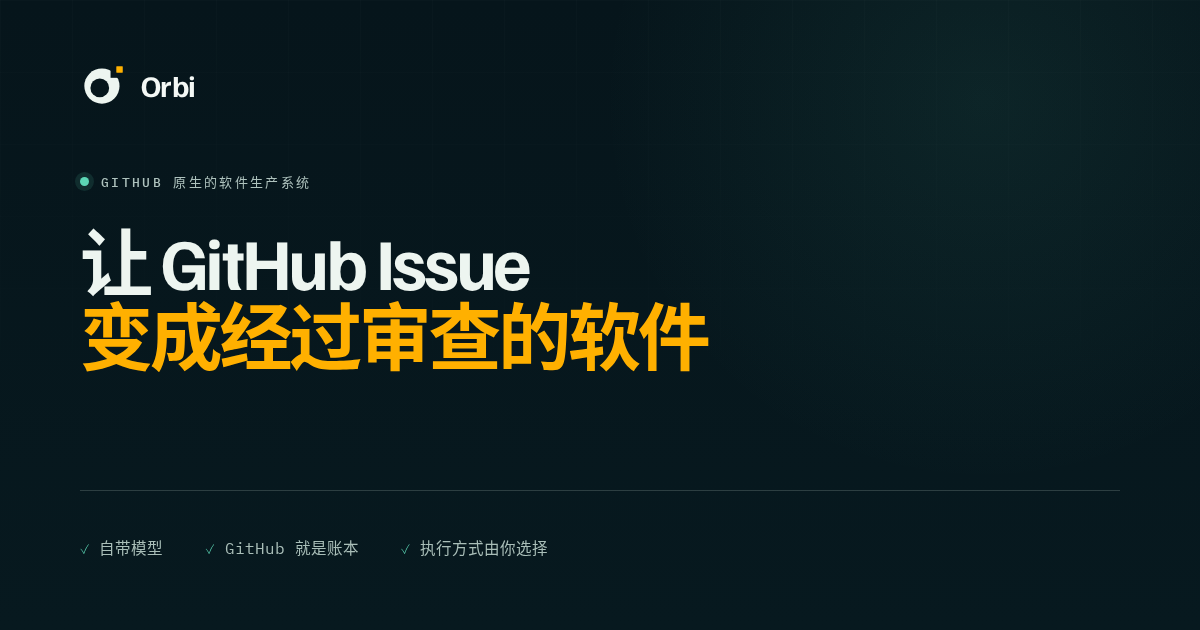
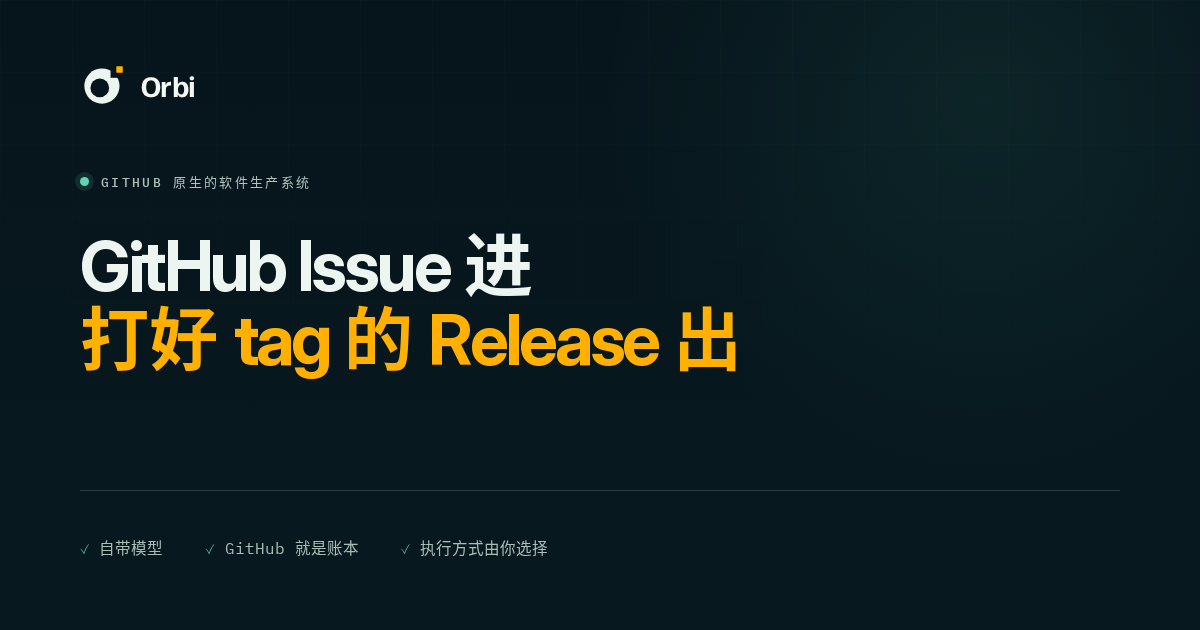
fix(og): 默认分享图标题写到发版，/cloud/ 换各自的分享卡片 (Fixes #550)
- og.png 第二行「into reviewed software」→「into tagged releases」，og-zh.png
  主标题改「GitHub Issue 进 / 打好 tag 的 Release 出」；版式、配色、1200×630、
  logo、眉题与小字全部沿用原图。
- 新增 og-cloud.png / og-cloud-zh.png（博文卡片风格）：主标题「File an Issue,
  get a release」/「提个 Issue，收个版本」，副标题「First 3 merged deliveries
  free · no card」/「前 3 次合并交付免费 · 无需绑卡」，每页一张不共用。
- /cloud/ 与 /zh/cloud/ 的 og:image、twitter:image、og:image:alt 指向各自新图，
  npm run build 重新生成 public/。

Changed region(s): [[0.0617, 0.3619, 0.6167, 0.6032]]

diff --git a/public/zh/cloud/index.html b/public/zh/cloud/index.html
@@ -19,16 +19,16 @@
   <meta property="og:url" content="https://orbi.build/zh/cloud/">
   <meta property="og:title" content="Orbi Cloud — 提个 Issue，收个版本">
   <meta property="og:description" content="托管 Runner：提个 Issue，收个版本——独立审查、exact-head merge、关闭 milestone。Solo 每月含 __SOLO_INCLUDED_TOKENS__ token 模型用量，Pro 每月含 __INCLUDED_TOKENS__。Cloud 提供免费、Solo 每月 US$__SOLO_MONTHLY_USD__、Pro 每月 US$__CLOUD_MONTHLY_USD__ 三档；创始会员永久 5 折，限 __FOUNDING_PARTNER_LIMIT__ 位。">
-  <meta property="og:image" content="https://orbi.build/img/og-zh.png">
+  <meta property="og:image" content="https://orbi.build/img/og-cloud-zh.png">
   <meta property="og:image:width" content="1200">
   <meta property="og:image:height" content="630">
-  <meta property="og:image:alt" content="Orbi Cloud — 运行 GitHub Issue 的托管 Runner。">
+  <meta property="og:image:alt" content="Orbi Cloud — 提个 Issue，收个版本。">
   <meta name="twitter:card" content="summary_large_image">
   <meta name="twitter:site" content="@xqliu">
   <meta name="twitter:creator" content="@xqliu">
   <meta name="twitter:title" content="Orbi Cloud — 提个 Issue，收个版本">
   <meta name="twitter:description" content="托管 Runner：提个 Issue，收个版本。Cloud 提供免费、Solo 每月 US$__SOLO_MONTHLY_USD__、Pro 每月 US$__CLOUD_MONTHLY_USD__ 三档；创始会员永久 5 折，限 __FOUNDING_PARTNER_LIMIT__ 位。">
-  <meta name="twitter:image" content="https://orbi.build/img/og-zh.png">
+  <meta name="twitter:image" content="https://orbi.build/img/og-cloud-zh.png">
   <link rel="preconnect" href="https://fonts.googleapis.com">
   <link rel="preconnect" href="https://fonts.gstatic.com" crossorigin>
   <link href="https://fonts.googleapis.com/css2?family=Familjen+Grotesk:wght@500;600;700&family=IBM+Plex+Mono:wght@400;500&family=Instrument+Sans:wght@400;500;600&family=Noto+Sans+SC:wght@400;500;600;700&display=swap" rel="stylesheet">

diff --git a/site/pages/zh/cloud/index.html b/site/pages/zh/cloud/index.html
@@ -41,16 +41,16 @@
   <meta property="og:url" content="https://orbi.build/zh/cloud/">
   <meta property="og:title" content="Orbi Cloud — 提个 Issue，收个版本">
   <meta property="og:description" content="托管 Runner：提个 Issue，收个版本——独立审查、exact-head merge、关闭 milestone。Solo 每月含 __SOLO_INCLUDED_TOKENS__ token 模型用量，Pro 每月含 __INCLUDED_TOKENS__。Cloud 提供免费、Solo 每月 US$__SOLO_MONTHLY_USD__、Pro 每月 US$__CLOUD_MONTHLY_USD__ 三档；创始会员永久 5 折，限 __FOUNDING_PARTNER_LIMIT__ 位。">
-  <meta property="og:image" content="https://orbi.build/img/og-zh.png">
+  <meta property="og:image" content="https://orbi.build/img/og-cloud-zh.png">
   <meta property="og:image:width" content="1200">
   <meta property="og:image:height" content="630">
-  <meta property="og:image:alt" content="Orbi Cloud — 运行 GitHub Issue 的托管 Runner。">
+  <meta property="og:image:alt" content="Orbi Cloud — 提个 Issue，收个版本。">
   <meta name="twitter:card" content="summary_large_image">
   <meta name="twitter:site" content="@xqliu">
   <meta name="twitter:creator" content="@xqliu">
   <meta name="twitter:title" content="Orbi Cloud — 提个 Issue，收个版本">
   <meta name="twitter:description" content="托管 Runner：提个 Issue，收个版本。Cloud 提供免费、Solo 每月 US$__SOLO_MONTHLY_USD__、Pro 每月 US$__CLOUD_MONTHLY_USD__ 三档；创始会员永久 5 折，限 __FOUNDING_PARTNER_LIMIT__ 位。">
-  <meta name="twitter:image" content="https://orbi.build/img/og-zh.png">
+  <meta name="twitter:image" content="https://orbi.build/img/og-cloud-zh.png">
   <link rel="preconnect" href="https://fonts.googleapis.com">
   <link rel="preconnect" href="https://fonts.gstatic.com" crossorigin>
   <link href="https://fonts.googleapis.com/css2?family=Familjen+Grotesk:wght@500;600;700&family=IBM+Plex+Mono:wght@400;500&family=Instrument+Sans:wght@400;500;600&family=Noto+Sans+SC:wght@400;500;600;700&display=swap" rel="stylesheet">

diff --git a/public/cloud/index.html b/public/cloud/index.html
@@ -19,16 +19,16 @@
   <meta property="og:url" content="https://orbi.build/cloud/">
   <meta property="og:title" content="Orbi Cloud — file an Issue, get a release">
   <meta property="og:description" content="A hosted runner that takes GitHub Issues to tagged GitHub Releases — independent review, exact-head merge, milestone closed. Solo includes __SOLO_INCLUDED_TOKENS__ tokens of model usage per month; Pro includes __INCLUDED_TOKENS__. Solo is US$__SOLO_MONTHLY_USD__/month and Pro is US$__CLOUD_MONTHLY_USD__/month; founding partners receive 50% off forever, __FOUNDING_PARTNER_LIMIT__ places.">
-  <meta property="og:image" content="https://orbi.build/img/og.png">
+  <meta property="og:image" content="https://orbi.build/img/og-cloud.png">
   <meta property="og:image:width" content="1200">
   <meta property="og:image:height" content="630">
-  <meta property="og:image:alt" content="Orbi Cloud — a hosted runner for GitHub Issues.">
+  <meta property="og:image:alt" content="Orbi Cloud — file an Issue, get a release.">
   <meta name="twitter:card" content="summary_large_image">
   <meta name="twitter:site" content="@xqliu">
   <meta name="twitter:creator" content="@xqliu">
   <meta name="twitter:title" content="Orbi Cloud — file an Issue, get a release">
   <meta name="twitter:description" content="A hosted runner: file an Issue, get a release. Solo is US$__SOLO_MONTHLY_USD__/month and Pro is US$__CLOUD_MONTHLY_USD__/month; founding partners receive 50% off forever, __FOUNDING_PARTNER_LIMIT__ places.">
-  <meta name="twitter:image" content="https://orbi.build/img/og.png">
+  <meta name="twitter:image" content="https://orbi.build/img/og-cloud.png">
   <link rel="preconnect" href="https://fonts.googleapis.com">
   <link rel="preconnect" href="https://fonts.gstatic.com" crossorigin>
   <!-- No Noto Sans SC here: this page is English-only; the Chinese page loads it. -->

diff --git a/site/pages/cloud/index.html b/site/pages/cloud/index.html
@@ -41,16 +41,16 @@
   <meta property="og:url" content="https://orbi.build/cloud/">
   <meta property="og:title" content="Orbi Cloud — file an Issue, get a release">
   <meta property="og:description" content="A hosted runner that takes GitHub Issues to tagged GitHub Releases — independent review, exact-head merge, milestone closed. Solo includes __SOLO_INCLUDED_TOKENS__ tokens of model usage per month; Pro includes __INCLUDED_TOKENS__. Solo is US$__SOLO_MONTHLY_USD__/month and Pro is US$__CLOUD_MONTHLY_USD__/month; founding partners receive 50% off forever, __FOUNDING_PARTNER_LIMIT__ places.">
-  <meta property="og:image" content="https://orbi.build/img/og.png">
+  <meta property="og:image" content="https://orbi.build/img/og-cloud.png">
   <meta property="og:image:width" content="1200">
   <meta property="og:image:height" content="630">
-  <meta property="og:image:alt" content="Orbi Cloud — a hosted runner for GitHub Issues.">
+  <meta property="og:image:alt" content="Orbi Cloud — file an Issue, get a release.">
   <meta name="twitter:card" content="summary_large_image">
   <meta name="twitter:site" content="@xqliu">
   <meta name="twitter:creator" content="@xqliu">
   <meta name="twitter:title" content="Orbi Cloud — file an Issue, get a release">
   <meta name="twitter:description" content="A hosted runner: file an Issue, get a release. Solo is US$__SOLO_MONTHLY_USD__/month and Pro is US$__CLOUD_MONTHLY_USD__/month; founding partners receive 50% off forever, __FOUNDING_PARTNER_LIMIT__ places.">
-  <meta name="twitter:image" content="https://orbi.build/img/og.png">
+  <meta name="twitter:image" content="https://orbi.build/img/og-cloud.png">
   <link rel="preconnect" href="https://fonts.googleapis.com">
   <link rel="preconnect" href="https://fonts.gstatic.com" crossorigin>
   <!-- No Noto Sans SC here: this page is English-only; the Chinese page loads it. -->
